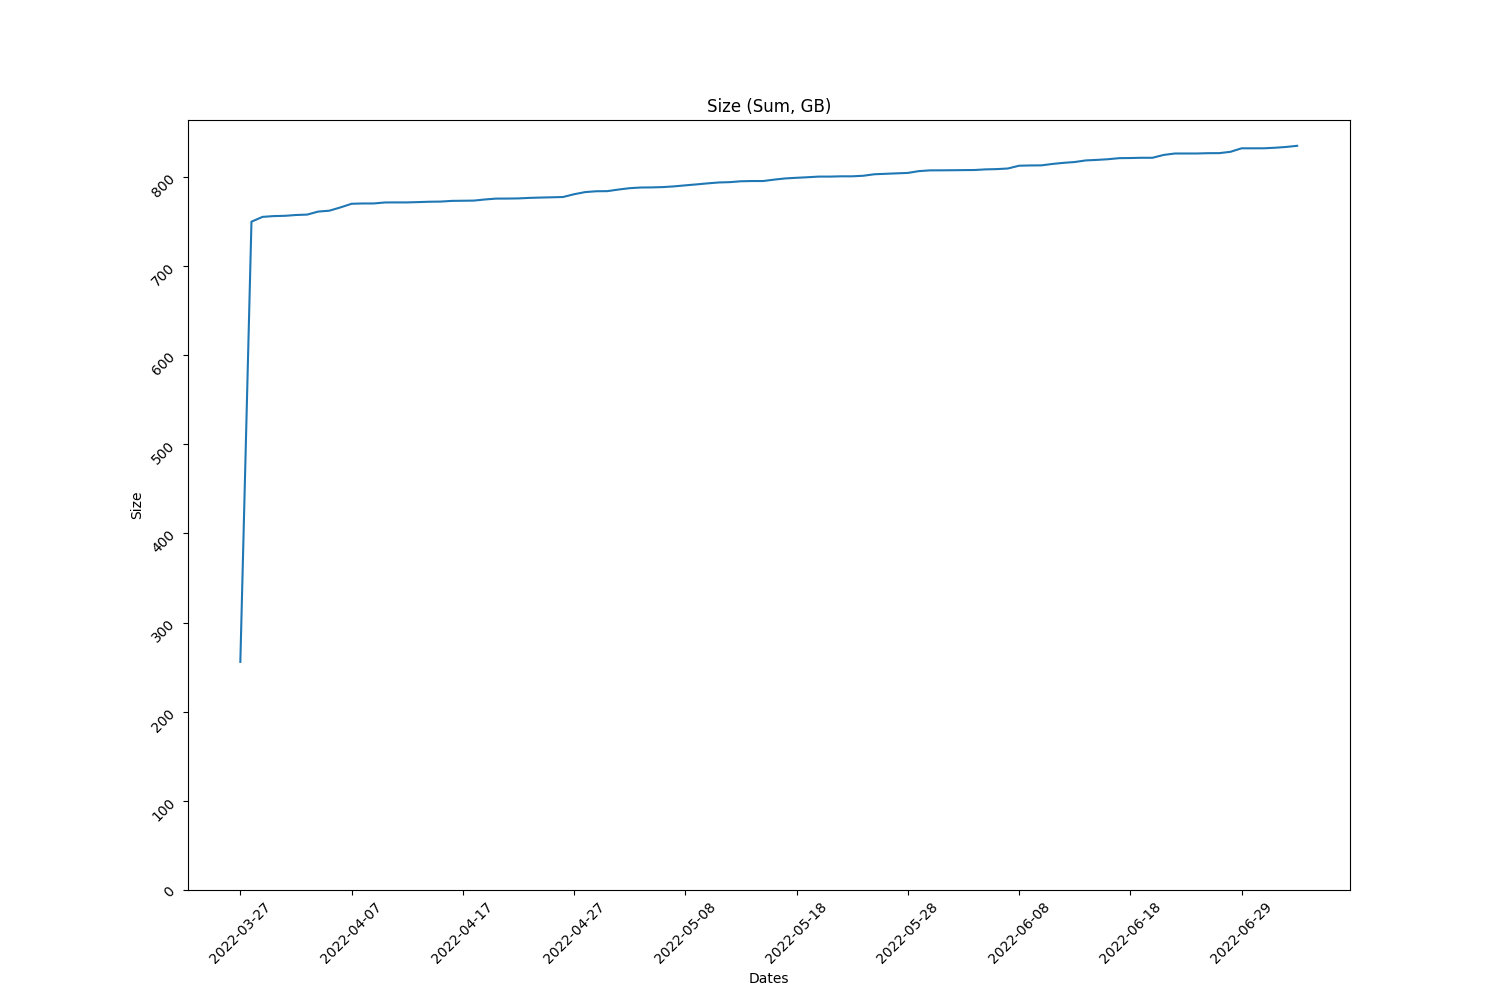
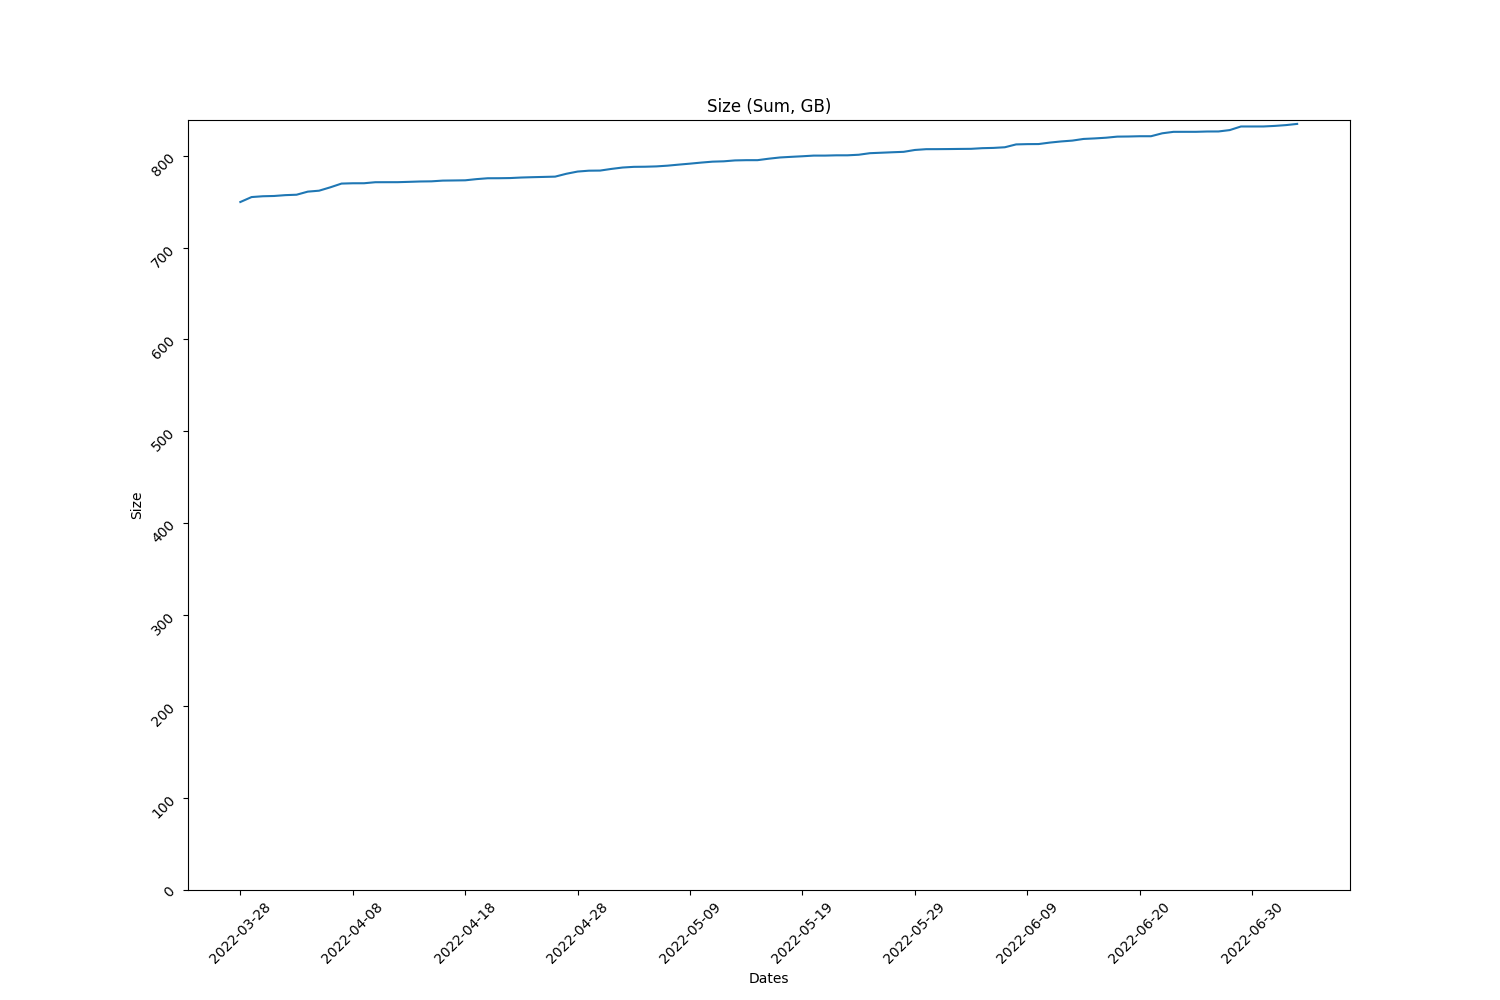
plot objects

diff --git a/report.py b/report.py
@@ -289,8 +289,8 @@ def get_draw_objects(file1name, file2name):
     num_objects[index] += num_objects[index-1]  
   
 
-  plot(dates, sizes, 'Size (Sum, GB)', 'Dates', 'Size', 10, 100,file1name)
-  plot(dates, num_objects, 'Number of Objects', 'Dates', 'Number of Objects', 10, 1500,file2name)
+  plot(dates[1:], sizes[1:], 'Size (Sum, GB)', 'Dates', 'Size', 10, 100,file1name)
+  plot(dates[1:], num_objects[1:], 'Number of Objects', 'Dates', 'Number of Objects', 10, 1500,file2name)
 
 def plot(x, y, title, x_label, y_label, x_spacing, y_spacing,filename):
   fig, ax = plt.subplots()
